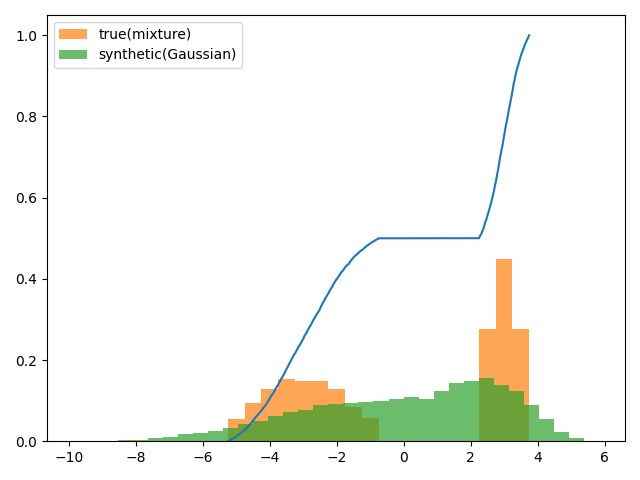
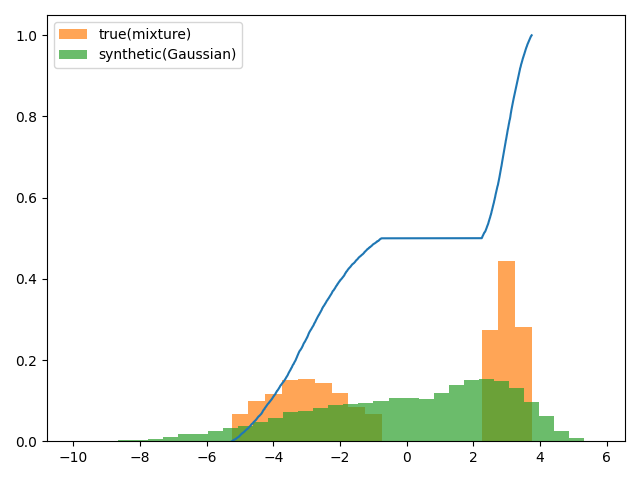
update chae exp

diff --git a/chae/main_noise.py b/chae/main_noise.py
@@ -1,0 +1,275 @@
+#%%
+import os
+import importlib
+import matplotlib.pyplot as plt
+import numpy as np
+import scipy.stats as stats
+
+import torch
+#%%
+import argparse
+
+def get_args(debug):
+    parser = argparse.ArgumentParser('parameters')
+    
+    parser.add_argument('--seed', type=int, default=42, 
+                        help='seed for repeatable results')
+    parser.add_argument('--dataset', type=str, default='mixture', 
+                        help='Dataset options: mixture')
+    parser.add_argument('--model', type=str, default='Gaussian', 
+                        help='Model options: Gaussian, GLD_finite, GLD_infinite, LSQF')
+    
+    parser.add_argument("--latent_dim", default=4, type=int,
+                        help="the latent dimension size")
+    parser.add_argument("--n", default=10000, type=int,
+                        help="the number of observations")
+    
+    parser.add_argument('--epochs', default=1000, type=int,
+                        help='the number of epochs')
+    parser.add_argument('--lr', default=0.001, type=float,
+                        help='learning rate')
+    
+    parser.add_argument("--step", default=0.05, type=float,
+                        help="interval size of quantile levels")
+    parser.add_argument('--threshold', default=1e-8, type=float,
+                        help='threshold for clipping alpha_tilde')
+  
+    if debug:
+        return parser.parse_args(args=[])
+    else:    
+        return parser.parse_args()
+#%%
+def main():
+    #%%
+    config = vars(get_args(debug=False)) # default configuration
+    config["cuda"] = torch.cuda.is_available()
+    device = torch.device('cuda:0') if torch.cuda.is_available() else torch.device('cpu')
+    
+    torch.manual_seed(config["seed"])
+    if config["cuda"]:
+        torch.cuda.manual_seed(config["seed"])
+    #%%
+    dataset_module = importlib.import_module('modules.build_dataset')
+    importlib.reload(dataset_module)
+    if config["dataset"] == "mixture":
+        data = dataset_module.build_mixture(config, device)
+    else:
+        raise ValueError('Not valid support option for DATASET.')
+    # plt.hist(data.numpy(), density=True, bins="scott")
+    
+    """Noise added"""
+    data += torch.randn_like(data) * 0.5
+    
+    plt.plot(np.sort(data.squeeze().numpy()), np.linspace(0, 1, len(data), endpoint=False))
+    #%%
+    """model"""
+    model_module = importlib.import_module('modules.model')
+    importlib.reload(model_module)
+    if config["model"] in ["GLD_finite", "GLD_infinite"]:
+        model = model_module.GLDDecoder(config, device).to(device)
+    elif config["model"] == "Gaussian":
+        model = model_module.GaussianDecoder(config, device).to(device)
+    elif config["model"] == "LSQF":
+        model = model_module.LSQFDecoder(config, device).to(device)
+    else:
+        raise ValueError('Not valid support option for MODEL.')
+
+    optimizer = torch.optim.Adam(
+        model.parameters(), 
+        lr=config['lr'])
+    model.train()
+    #%%
+    count_parameters = lambda model: sum(p.numel() for p in model.parameters() if p.requires_grad)
+    num_params = count_parameters(model)
+    print(f"Number of Parameters: {num_params:d}")
+    #%%
+    for epoch in range(config["epochs"]+1):
+        optimizer.zero_grad()
+        
+        if config["model"] in ["GLD_finite", "GLD_infinite"]:
+            tau = torch.linspace(0.01, 0.99, 20).unsqueeze(0).to(device)
+            z, mean, logvar, theta1, theta2, theta3, theta4 = model(data)
+            Q = model.quantile_function(tau, theta1, theta2, theta3, theta4)
+            residual = data - Q
+            loss = (residual * (tau - (residual < 0).to(torch.float32))).mean()
+            
+            """KL-Divergence"""
+            KL = torch.pow(mean, 2).sum(dim=1)
+            KL -= logvar.sum(dim=1)
+            KL += torch.exp(logvar).sum(dim=1)
+            KL -= config["latent_dim"]
+            KL *= 0.5
+            KL = KL.mean()
+            
+            beta_ = 0.1
+            loss += beta_ * KL
+            
+        elif config["model"] == "Gaussian":
+            z, mean, logvar, xhat = model(data)
+            residual = data - xhat
+            loss = 0.5 * (residual.pow(2)).mean()
+            
+            """KL-Divergence"""
+            KL = torch.pow(mean, 2).sum(dim=1)
+            KL -= logvar.sum(dim=1)
+            KL += torch.exp(logvar).sum(dim=1)
+            KL -= config["latent_dim"]
+            KL *= 0.5
+            KL = KL.mean()
+            
+            beta_ = 0.1
+            loss += beta_ * KL
+            
+            # z, mean, logvar, xhat, logsigma = model(data)
+            # residual = data - xhat
+            # loss = (residual.pow(2) / (2 * logsigma.exp()) + 0.5 * logsigma).squeeze()
+            
+            # """KL-Divergence"""
+            # KL = torch.pow(mean, 2).sum(dim=1)
+            # KL -= logvar.sum(dim=1)
+            # KL += torch.exp(logvar).sum(dim=1)
+            # KL -= config["latent_dim"]
+            # KL *= 0.5
+            
+            # loss = (loss + KL).mean()
+            # KL = KL.mean()
+        
+        elif config["model"] == "LSQF":
+            z, mean, logvar, gamma, beta = model(data)
+            
+            alpha_tilde = model.quantile_inverse(data, gamma, beta)
+            term = (1 - model.delta.pow(3)) / 3 - model.delta - torch.maximum(alpha_tilde, model.delta).pow(2)
+            term += 2 * torch.maximum(alpha_tilde, model.delta) * model.delta
+            
+            loss = (2 * alpha_tilde) * data
+            loss += (1 - 2 * alpha_tilde) * gamma
+            loss += (beta * term).sum(dim=1, keepdims=True)
+            loss *= 0.5
+            loss = loss.mean()
+            
+            """KL-Divergence"""
+            KL = torch.pow(mean, 2).sum(dim=1)
+            KL -= logvar.sum(dim=1)
+            KL += torch.exp(logvar).sum(dim=1)
+            KL -= config["latent_dim"]
+            KL *= 0.5
+            KL = KL.mean()
+            
+            beta_ = 0.05
+            loss += beta_ * KL
+            
+        else:
+            raise ValueError('Not valid support option for MODEL.')
+        
+        loss.backward()
+        optimizer.step()
+        
+        if epoch % 50 == 0:
+            print_input = "[epoch {:03d}]".format(epoch)
+            print_input += ', {}: {:.4f}, {}: {:.4f}'.format("loss", loss, "KL", KL)
+            print(print_input)
+    #%%
+    with torch.no_grad():
+        if config["model"] in ["GLD_finite", "GLD_infinite"]:
+            z_ = torch.randn((len(data), config["latent_dim"]))
+            alpha = torch.rand((len(data), 1))
+            theta1, theta2, theta3, theta4 = model.decode(z_)
+            syndata = model.quantile_function(alpha, theta1, theta2, theta3, theta4)
+            
+        elif config["model"] == "Gaussian":
+            z_ = torch.randn((len(data), config["latent_dim"]))
+            xhat = model.decoder(z_)
+            syndata = xhat + np.sqrt(beta_) * torch.randn((len(data), 1))
+            # h = model.decoder(z_)
+            # xhat, logsigma = h[:, [0]], h[:, [1]]
+            # syndata = xhat + logsigma.exp().sqrt() * torch.randn((len(data), 1))
+        
+        elif config["model"] == "LSQF":
+            z_ = torch.randn((len(data), config["latent_dim"]))
+            alpha = torch.rand((len(data), 1))
+            gamma, beta = model.decode(z_)
+            syndata = model.quantile_function(alpha, gamma, beta)
+            
+        else:
+            raise ValueError('Not valid support option for MODEL.')
+    
+    asset_dir = f"./assets_noise/"
+    if not os.path.exists(asset_dir):
+        os.makedirs(asset_dir)
+    plt.hist(
+        data.numpy(), 
+        density=True, bins="scott", label=f"true({config['dataset']})", alpha=0.7)
+    plt.hist(
+        syndata.numpy(), 
+        density=True, bins="scott", label=f"synthetic({config['model']})", alpha=0.7)
+    if config["dataset"] == "heavytailed":
+        plt.ylim(0, 0.01)
+    plt.legend()
+    plt.tight_layout()
+    plt.savefig(f"./{asset_dir}/aggregated_{config['dataset']}_{config['model']}.png")
+    # plt.show()
+    plt.close()
+    #%%
+    if config["model"] in ["GLD_finite", "GLD_infinite"]:
+        with torch.no_grad():
+            z_ = torch.randn((20, config["latent_dim"]))
+            theta1, theta2, theta3, theta4 = model.decode(z_)
+
+        for i in range(len(z_)):
+            alpha = torch.linspace(0, 1, 1000)[:, None]
+            syndata = model.quantile_function(alpha, theta1[[i]], theta2[[i]], theta3[[i]], theta4[[i]])
+            dx = syndata[1:] - syndata[0:-1]
+            deriv = np.diff(alpha.numpy().squeeze()) / dx.squeeze()
+            plt.plot(syndata.numpy().squeeze()[1:], deriv)
+        plt.hist(data.numpy(), density=True, bins="scott", alpha=0.5, label="true")
+        plt.tight_layout()
+        plt.legend()
+        plt.savefig(f"./{asset_dir}/latent_{config['dataset']}_{config['model']}.png")
+        # plt.show()
+        plt.close()
+    
+    if config["model"] == "LSQF":
+        with torch.no_grad():
+            z_ = torch.randn((20, config["latent_dim"]))
+            gamma, beta = model.decode(z_)
+
+        for i in range(len(z_)):
+            alpha = torch.linspace(0, 1, 100)[:, None]
+            syndata = model.quantile_function(alpha, gamma[[i]], beta[[i]])
+            plt.plot(syndata.numpy(), alpha.numpy())
+        plt.plot(
+            np.sort(data.squeeze().numpy()), 
+            np.linspace(0, 1, len(data), endpoint=False), linewidth=3, label="true")
+        plt.fill_between(
+            np.sort(data.squeeze().numpy()), 
+            np.linspace(0, 1, len(data), endpoint=False), 
+            color='blue', alpha=0.1)
+        plt.tight_layout()
+        plt.savefig(f"./{asset_dir}/latent_{config['dataset']}_{config['model']}.png")
+        # plt.show()
+        plt.close()
+    
+    if config["model"] == "Gaussian":
+        with torch.no_grad():
+            z_ = torch.randn((20, config["latent_dim"])) # prior distribution
+            xhat = model.decoder(z_)
+            # h = model.decoder(z_)
+            # xhat, logsigma = h[:, [0]], h[:, [1]]
+        
+        mu = xhat.numpy()
+        sigma = np.ones((len(z_), 1)) * np.sqrt(beta_)
+        # sigma = logsigma.exp().sqrt().numpy()
+        
+        for i in range(len(z_)):
+            x = np.linspace(mu[i] - 3*sigma[i], mu[i] + 3*sigma[i], 100)
+            plt.plot(x, stats.norm.pdf(x, mu[i], sigma[i]))
+        
+        plt.hist(data.numpy(), density=True, bins="scott", alpha=0.5, label="true")
+        plt.tight_layout()
+        plt.savefig(f"./{asset_dir}/latent_{config['dataset']}_{config['model']}.png")
+        # plt.show()
+        plt.close()
+#%%
+if __name__ == '__main__':
+    main()
+#%%    
